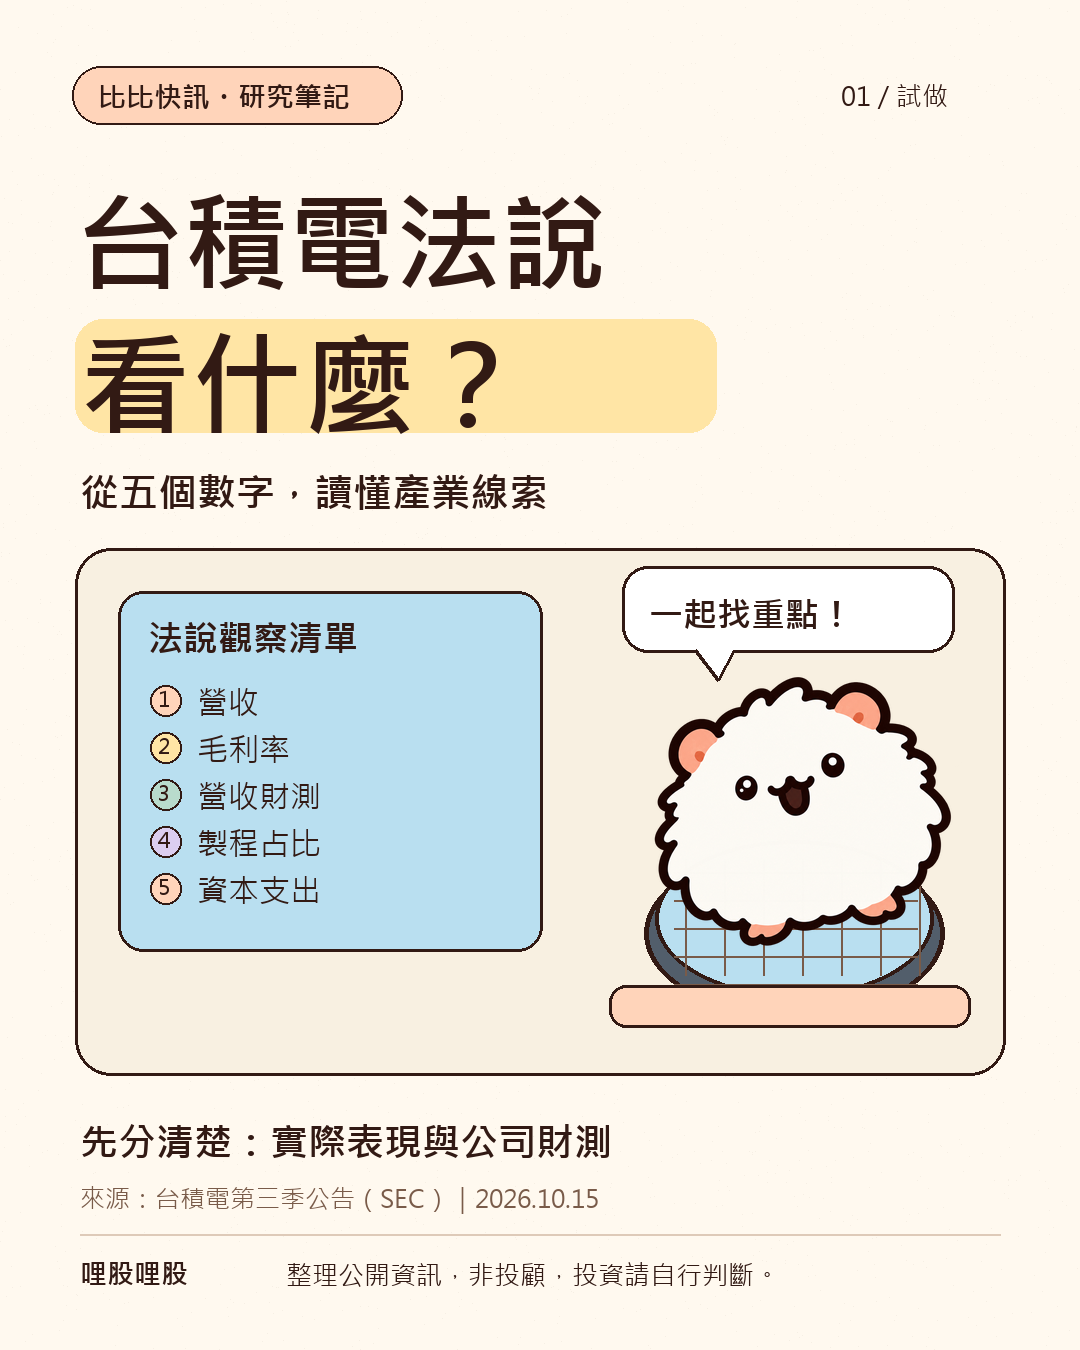
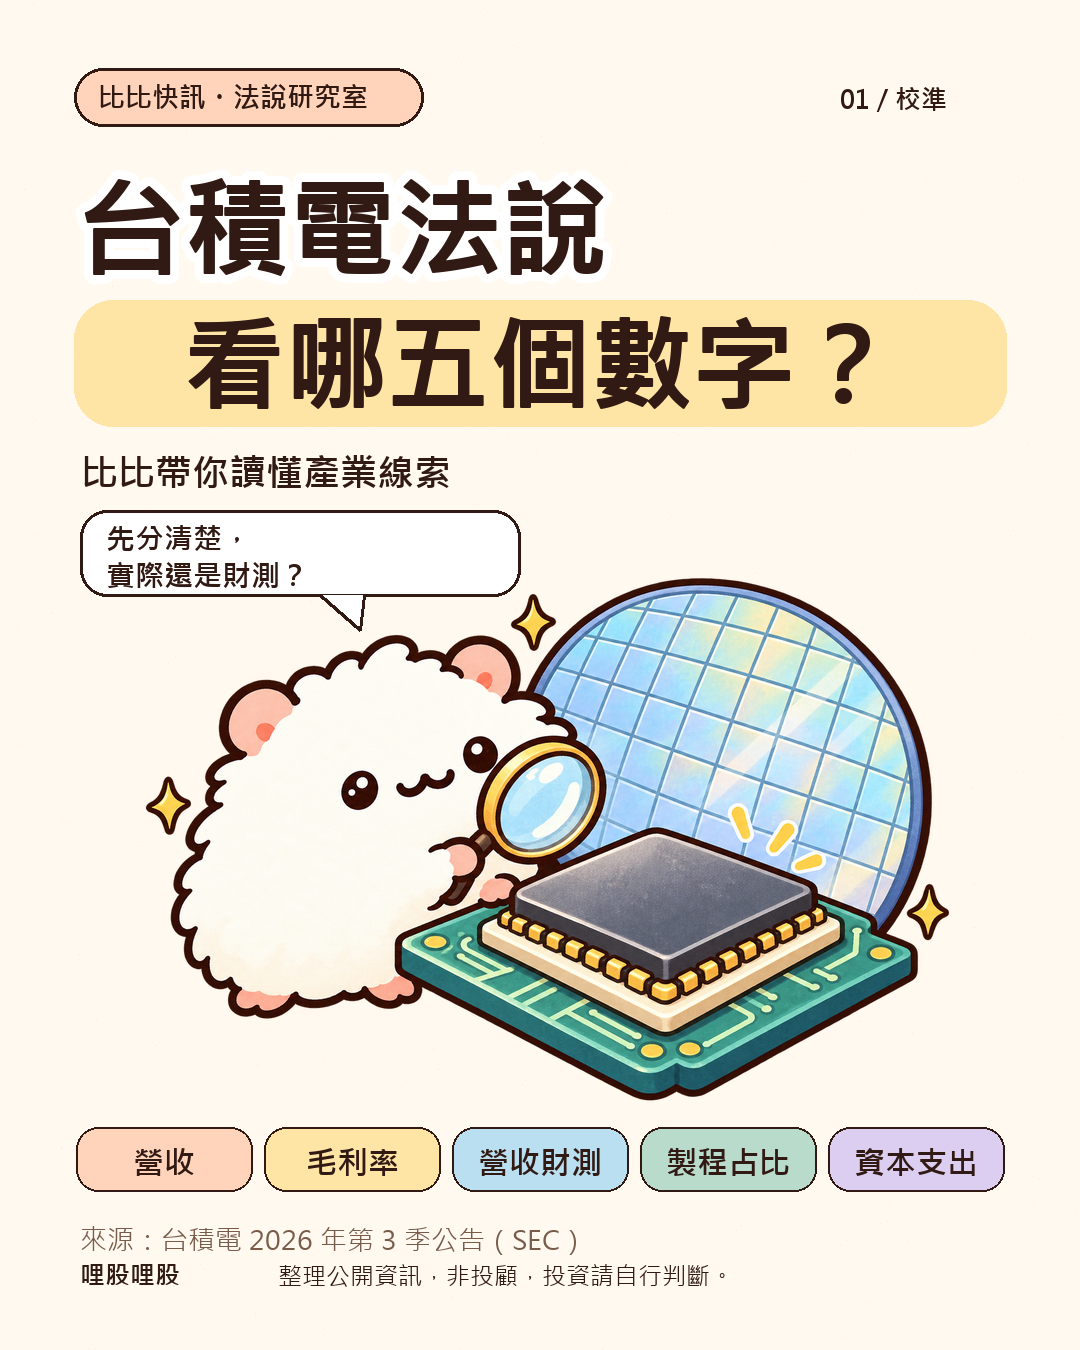
重修第1頁科技主視覺與比比主持互動，附放大品管

diff --git a/docs/social_posts/2026-10-17_tsmc-q3-call/render_cover_v2.py b/docs/social_posts/2026-10-17_tsmc-q3-call/render_cover_v2.py
@@ -1,0 +1,61 @@
+from PIL import Image, ImageDraw, ImageFont
+from pathlib import Path
+import random,shutil
+P=Path(__file__).parent
+(P/'qa').mkdir(exist_ok=True)
+W,H=1080,1350
+C='#321A14'; M='#795B49'
+im=Image.new('RGB',(W,H),'#FFF9EF'); d=ImageDraw.Draw(im)
+def font(n,b=False): return ImageFont.truetype('C:/Windows/Fonts/msjhbd.ttc' if b else 'C:/Windows/Fonts/msjh.ttc',n)
+def text(x,y,s,n=36,c=C,b=False,stroke=0):
+ f=font(n,b); box=d.textbbox((x,y),s,font=f,stroke_width=stroke)
+ assert box[0]>=64 and box[2]<=1016 and box[3]<=1290,(s,box)
+ d.text((x,y),s,font=f,fill=c,stroke_width=stroke,stroke_fill=c)
+def center(y,s,n=36,c=C,b=False,stroke=0):
+ f=font(n,b); x=(W-d.textlength(s,font=f))/2
+ text(x,y,s,n,c,b,stroke)
+random.seed(17)
+for _ in range(8000):
+ x=random.randrange(W); y=random.randrange(H)
+ d.point((x,y),fill=random.choice(['#F6EFE5','#FFF9EF','#FFF9EF']))
+d.rounded_rectangle((74,68,423,126),29,fill='#FFD4BA',outline=C,width=3)
+text(98,77,'比比快訊・法說研究室',27,b=True)
+text(840,81,'01 / 校準',26,b=True)
+# 大標：貼紙留邊與淡黃刷色底，文字由程式後製。
+f=font(106,True); s='台積電法說'; x=78; y=153
+d.text((x,y),s,font=f,fill=C,stroke_width=10,stroke_fill='#FFFFFF')
+d.text((x,y),s,font=f,fill=C,stroke_width=1,stroke_fill=C)
+d.rounded_rectangle((74,300,1006,426),39,fill='#FFE5A5')
+center(292,'看哪五個數字？',102,b=True,stroke=1)
+text(81,446,'比比帶你讀懂產業線索',37,b=True)
+# 大型科技情境，角色有與主題相關的觀察動作。
+scene_path=P/'assets/bibi_research_scene_v001.png'
+if not scene_path.exists(): scene_path=P.parents[1]/'social_assets/author_unverified/bibi_chip_research_host/v001.png'
+scene=Image.open(scene_path).convert('RGBA')
+scene.thumbnail((970,584),Image.Resampling.LANCZOS)
+sx=(W-scene.width)//2; sy=534
+im.paste(scene,(sx,sy),scene); d=ImageDraw.Draw(im)
+# 獨立台詞：尾巴指向左側比比；不覆蓋角色或零件。
+d.rounded_rectangle((80,510,520,596),27,fill='#FFFFFF',outline=C,width=3)
+d.polygon([(320,595),(360,630),(364,595)],fill='#FFFFFF')
+d.line([(320,595),(360,630),(364,595)],fill=C,width=3)
+text(106,517,'先分清楚，',29,b=True)
+text(106,554,'實際還是財測？',29,b=True)
+# 五個財務入口獨立成列，沒有指向科技構件的線。
+labels=[('營收','#FFD4BA'),('毛利率','#FFE5A5'),('營收財測','#B9DFF0'),('製程占比','#B9DBCC'),('資本支出','#DCCEF0')]
+for i,(label,color) in enumerate(labels):
+ x=76+i*188
+ d.rounded_rectangle((x,1127,x+176,1191),22,fill=color,outline=C,width=2)
+ f=font(31,True); tx=x+(176-d.textlength(label,font=f))/2
+ text(tx,1140,label,31,b=True)
+text(80,1220,'來源：台積電 2026 年第 3 季公告（SEC）',27,c=M)
+text(80,1257,'哩股哩股',25,b=True)
+text(278,1259,'整理公開資訊，非投顧，投資請自行判斷。',24)
+im.save(P/'slides/01_v2.png',optimize=True)
+im.resize((360,450),Image.Resampling.LANCZOS).save(P/'slides/01_v2_mobile.png')
+# 角色與道具接觸放大檢查，不改寫原始圖。
+scene_original=Image.open(scene_path).convert('RGBA')
+crop=scene_original.crop((100,120,950,880))
+bg=Image.new('RGBA',crop.size,'#FFF9EF'); bg.alpha_composite(crop)
+bg.convert('RGB').resize((1700,1520),Image.Resampling.LANCZOS).save(P/'qa/bibi_contact_200.png')
+print('v2 rendered; text bounds verified')

diff --git a/docs/social_posts/2026-10-17_tsmc-q3-call/qa_report_v2.md b/docs/social_posts/2026-10-17_tsmc-q3-call/qa_report_v2.md
@@ -1,0 +1,44 @@
+# 品管｜第1頁 v2 科技研究情境
+
+狀態：本次單頁文案、版面與角色檢查通過；風格仍待 Andy 確認。獨立複查見 qa_independent_v2.md。僅單頁，不能宣稱全篇連續動作已通過。
+
+## 本頁製作單
+
+- 頁碼／結論：01；讀法說先看五個觀察面向，分清實際與財測。
+- 主標：台積電法說／看哪五個數字？共12字含問號、換行不計。
+- 副標：比比帶你讀懂產業線索。
+- 主視覺：比比＋放大鏡＋晶片平台＋晶圓，為研究情境示意，非真實產品架構，不承擔數據圖功能。
+- 標籤：營收／毛利率／營收財測／製程占比／資本支出；獨立分類、不連線至零件。
+- 比比台詞：先分清楚，實際還是財測？
+- 主持功能：以觀察晶片的動作邀請讀者看研究重點，台詞提示實際與財測有別。
+- 表情／視線／動作：好奇專注微笑、朝讀者介紹、短掌握鏡、另一掌接觸平台；非長手臂。
+- 互動物件：鏡柄與掌接觸、平台支撐另一掌，鏡面靠近晶片；不宣稱正在精密量測。
+- 素材 ID／版本：bibi_chip_research_host／v001；新情境由 imagegen 生成，原角色參考的歷史作者 unknown，保留衍生歸屬。
+- 色彩與版型：奶油底、咖啡輪廓、大字貼紙主標、淡黃刷色、淺藍晶圓與薄荷平台、下方五個粉彩膠囊。
+- 製作工具：內建 image_gen.imagegen 產插畫；Python/Pillow 後製所有正式文字與分類標籤。
+
+## 逐項檢查
+
+- [x] 正式圖1080×1350；360×450縮圖已實看；主標與五標籤可辨。
+- [x] 數字對照：2026／第3季對應 brief 的 SEC 公告；「五個」為本篇分類數，不是財報指標數值。
+- [x] 無新增未核實營收／資本支出數據；財測有文字標示，沒有把預估畫成實際。
+- [x] 正式繁體中文後製，文字邊界程式檢查並人工檢視；沒有拆詞、重疊與裁切。
+- [x] 原尺寸實看整頁；角色／鏡柄／兩掌／兩腳與平台接觸裁切放大200%實看。
+- [x] 五官位置、耳、掌、腳、毛邊及外輪廓未見重影、多餘肢體、異常碎片、尾巴或穿模。
+- [x] 奶白身體，粉色僅耳掌腳；無腮紅、無粉舌、無金錢圖示、無長臂或人類手指。
+- [x] 泡泡尾朝比比；初版尾偏向晶圓已移位；場景不遮關鍵文字。
+- [x] 沒有第三方浮水印、帳號、Logo或挖取參考原圖。
+- [x] 來源與固定免責保留；追蹤文章連結沿用 brief.md。
+- [x] 來源註記改成「2026 年第 3 季」並放大，減少中文字形在小尺寸易誤認的問題。
+- [x] 提示詞、父素材、來源與版本已登錄，新情境入共用素材庫供後續查找。
+- [ ] Andy 確認風格；本項與技術品管分開。
+- [ ] 全篇連續頁主持變化：本次不適用，其他頁尚未製作。
+
+## 版本與限制
+
+- v1保留；v2以新情境圖取代清單卡主視覺。
+- 檢查證據：slides/01_v2.png、slides/01_v2_mobile.png、qa/bibi_contact_200.png。
+- 手機縮圖頁腳屬輔助小字，主標與重點可讀；完整來源與免責另保留於文字檔，後續全篇來源頁須再驗收。
+- 共用素材為情境組合，不把角色裁切後宣稱為新的獨立原畫。歷史原角色作者／權利未知仍保留 unknown。
+
+整理公開資訊，非投顧，投資請自行判斷。

diff --git a/docs/social_posts/2026-10-17_tsmc-q3-call/qa_independent_v2.md b/docs/social_posts/2026-10-17_tsmc-q3-call/qa_independent_v2.md
@@ -1,0 +1,36 @@
+# 視覺與資料品管｜第 1 頁 v2 獨立複核
+
+- 日期：2026-10-17（Asia/Taipei）。
+- 實際查看：slides/01_v2.png、slides/01_v2_mobile.png、qa/bibi_contact_200.png，三張皆以 view_image 開啟，未修改 PNG。
+- 結果：主持情境、文字版面與角色異常檢查通過。來源季度註記已改善可讀性並實看複查；Andy 的風格核可另行判定。
+
+## 實際觀察
+
+|檢查項|結果|
+|---|---|
+|整頁層級與裁切|主標、問句、副標、台詞、主圖、五標籤與頁腳分區明確；角色及主要物件未被頁面裁斷。|
+|正式文字|繁體中文正常，主標為 12 字（含問號、不計換行）；未見簡體、亂碼與詞語拆行。|
+|手機縮圖|360 px 圖中主標、問句清楚，五個標籤可辨；頁腳來源／免責較小，須開原尺寸閱讀，不能宣稱手機下每字同等清晰。|
+|五官|兩眼、兩耳、一個嘴部構造，眼睛有白色高光；未見多臉、錯位或重影。|
+|輪廓與配色|奶白毛球、深咖啡粗輪廓完整，未見破碎毛邊或孤立碎片；粉色只在耳、掌、腳，無粉腮。|
+|肢體與無尾巴|可見兩短掌、兩短腳；未見人類手指、拉長手臂、多餘肢體或尾巴。|
+|放大鏡握持|前掌接觸握柄，握柄與鏡框連續；未見漂浮、斷手或穿過手掌。另一掌靠在平台後緣，未見穿模。|
+|平台接觸|短腳位於畫面下緣地面位置，另一掌與平台後緣相接；平台是示意情境，未把比比畫成技術結構的一部分。|
+|主持意圖|比比帶放大鏡向讀者介紹，台詞提醒區分實際與財測，與法說閱讀內容相關；眼神朝讀者，不能描述成正盯著鏡片。|
+|泡泡|尾巴下指比比頭頂方向，未指向晶圓或晶片；泡泡與頭部輪廓有間距。|
+|文字與主圖|未見主標、台詞、五標籤或頁腳疊壓角色與道具；標籤未連線到技術構件。|
+|技術示意|晶圓與晶片是主題情境，未附未查核規格或數值；不將此圖當作製程、封裝、針腳結構的教學圖。|
+|來源、免責、第三方標記|可見「來源：台積電 2026 年第 3 季公告（SEC）」、固定免責與品牌字樣；未見第三方帳號／浮水印／Logo。|
+
+## 可讀性改善與複查
+
+初輪因來源字型在視圖中易誤認季度，向主代理提出複查；renderer 原文一直為第三季，並非事實來源曾填錯季度。主代理已採納可讀性改善，改為「來源：台積電 2026 年第 3 季公告（SEC）」，字級由 25 px 增至 27 px，移除同列日期增加留白。本人再次以 view_image 實看重渲染的整頁與 360 px 圖；第 3 季文字明確，未見新重疊或裁切，通過本次複查。
+
+## 可觀察限制
+
+- 視覺可確認握持／輪廓關係合理，不能由情境插圖保證實際半導體構造與物理尺寸。
+- 角色接觸處放大圖工具回傳曾由 1700×1520 縮至 1664×1487，仍足以檢查可見五官、掌、腳與握持輪廓；並非像素逐點分析。
+- 本次只有一頁，無法驗收連續頁至少改變兩項角色表現的全篇要求。
+- 本次未重新開外部公告，來源事實分級沿用 brief；圖像原始作者／素材版本與權利登錄由素材管理文件核對。
+
+

diff --git a/docs/social_posts/2026-10-17_tsmc-q3-call/illustration_prompt_v2.md b/docs/social_posts/2026-10-17_tsmc-q3-call/illustration_prompt_v2.md
@@ -1,0 +1,13 @@
+# 插畫｜v2 提示與素材用途
+
+- 工具：內建 image_gen.imagegen；透明背景。
+- 參考 1：既有 bibi_clean.png，只作角色身份參考；原畫作者 unknown，衍生素材保留此來源。
+- 參考 2：Andy 提供 image (1).png，只學暖色手繪科技主視覺，禁止挖圖、複製字、Logo 或第三方帳號。
+- 用途：法說封面；比比透過放大鏡觀察晶片，提供「一起找重點」的主持情境，可重用於晶片研究介紹。
+- 構圖：比比左、晶片右、晶圓後方，短掌合理接觸放大鏡及平台；視覺為主題情境示意，非實際產品結構圖。
+- 規格：奶白毛球、咖啡輪廓、白高光黑眼、小耳、短掌短腳、無尾巴；粉色只耳掌腳；無金錢符號、無中文字與數字。
+
+## 完整生成提示
+
+Use case: illustration-story. Create a NEW original transparent-background editorial illustration asset for a warm handdrawn technology research IG cover. Input 1 is Bibi identity reference; input 2 is STYLE AND COMPOSITION inspiration ONLY, do not reproduce its artwork, lettering or character poses. One cream fluffy guinea pig Bibi on LEFT, round compact body, deep coffee thick imperfect handdrawn contour, tiny round ears, black dot eyes with white catchlights, short round front paws and tiny feet, no tail, NO blush, NO pink tongue, cream fur without peach shadows, pink ONLY ears/paws/feet. Curious focused expression, gaze toward a magnifying glass lens held by one TINY front paw close to its body, lens aimed toward an unmarked dark slate microchip on the RIGHT. Other tiny front paw rests naturally on the edge of a low teal circuit-board platform (no long arms, no fingers). The magnifying glass handle must visibly connect to the small paw, no floating. Hero centerpiece is a LARGE perspective semiconductor silicon wafer behind and a BIG single processor chip on a layered teal substrate in foreground right, coherent simple chip structure, gold contact pads, light blue wafer grid. This is an editorial research scene, not a technical diagram or actual product architecture. Bibi about 40 percent of scene width, large and expressive, technology about 60 percent. Rounded warm watercolor pencil texture, soft cream/blue/mint/yellow, dark brown contour, gentle shadows, slight three-quarter view, same visual richness and charm as reference 2 without copying. Compose as a wide compact group filling canvas, full body, full wafer, all paws and glass uncropped, generous transparent margin. NO letters, NO text, NO numbers, NO logos, NO currency, NO speech bubbles, no charts, no watermarks, no duplicate limbs or fur fragments. Preserve actual transparent alpha background. Generate only illustration; typography will be added later.
+

diff --git a/docs/social_posts/2026-10-17_tsmc-q3-call/copy_review_v2.md b/docs/social_posts/2026-10-17_tsmc-q3-call/copy_review_v2.md
@@ -1,0 +1,36 @@
+# 文案企劃／研究查核｜第 1 頁 v2 文案複核
+
+- 日期：2026-10-17（Asia/Taipei）。
+- 複核範圍：dispatch_v2.md、brief.md、article_snapshot.json、BIBI_HOST_QA.md。此次僅核對封面文字與既有查核邊界，不宣稱重新讀取各項外部公告。
+- 結果：文字方案可進入排版；不新增財報數值、不把母文章未查核敘述帶入封面。
+
+## 核准文字
+
+|用途|文字|檢查|
+|---|---|---|
+|主標第 1 行|台積電法說|5 字|
+|主標第 2 行|看哪五個數字？|7 字，含問號；兩行合計 12 字，換行不計|
+|副標|比比帶你讀懂產業線索|11 字|
+|五個入口|營收／毛利率／營收財測／製程占比／資本支出|與既有 brief 的五面向一致|
+|比比台詞|先分清楚，實際還是財測？|引導辨識實際與預估，不暗示獲利或訂單|
+
+## 研究邊界
+
+- 「五個」是封面入口數量，與五標籤一一對應；不是新增財務數據。
+- 「營收財測」已明示預估性質；不得畫成實際營收柱、已成定局的成長箭頭。
+- 「製程占比」只作入口標籤，後續展開必須明寫分母為晶圓營收。
+- 「資本支出」是觀察主題，不呈現本輪未核的全年金額，也不暗示特定供應商訂單。
+- 「產業線索」是閱讀目的，不是投資結論；不加入受惠股、買賣、股價漲跌文字。
+- 五標籤不宜直接連到晶圓的五個構件，以免把財務項目誤認成物理結構；科技圖為產業情境示意。
+
+## 排版與主持交接
+
+- 比比以專注觀察的主持角色，視線指向晶圓／放大鏡觀察處，台詞解釋閱讀方法。
+- 放大鏡應確實由短掌握持，鏡片對準觀察物，不能遮住臉、五標籤與主標。
+- 泡泡尾巴指向比比，不指向科技物件；避免台詞看似物件自述。
+- 保留來源註記與固定免責：整理公開資訊，非投顧，投資請自行判斷。
+- 正式文字另行後製；所有文字仍需於成圖 100% 與 360 px 縮圖實際檢查。
+
+## 待做視覺品管
+
+成圖尚未交付本複核角色，故不勾選視覺通過。收到後檢查 100% 全圖、200～400% 比比及道具接觸處、360 px 縮圖，另記實際異常與複查結果。

diff --git a/docs/social_posts/2026-10-17_tsmc-q3-call/dispatch_v2.md b/docs/social_posts/2026-10-17_tsmc-q3-call/dispatch_v2.md
@@ -1,0 +1,19 @@
+# CEO／總編｜第 1 頁重修派工單
+
+- 日期：2026-10-17（Asia/Taipei）。
+- 授權：Andy 要求先執行 CEO 判斷的封面優化；本次僅第 1 頁 v2，不擴製其他頁。
+- 設計主軸：大型晶圓與晶片研究情境，比比透過放大鏡觀察、引導讀者辨識法說重點。從清單卡改為科技主視覺，正式文字另行排版。
+
+|角色|負責人／順序|交付|
+|---|---|---|
+|CEO／總編|主代理，全程|定稿、整合、回報；兩種入口固定寫入規則|
+|研究查核|研究／文案子代理，並行|重讀 brief／母文快照，確認封面文案不新增未核數字|
+|文案企劃|研究／文案子代理，並行|第 1 頁標題、主持台詞與五標籤檢查|
+|貼文設計|主代理，文案後|1080×1350 v2 與手機縮圖|
+|插畫|主代理，imagegen|比比與晶圓情境透明 PNG；生成提示與來源登錄|
+|短影片|本次不啟用|未要求影片|
+|品管|主代理＋品管子代理，成圖後|100% 整頁、200～400% 角色接觸處、360 px 縮圖|
+|素材管理|主代理|新 asset_id、manifest、素材索引與本篇引用|
+|備份|主代理，品管後|更新 PR #5 成品、PR #6 規則與素材庫；不推 main|
+
+完成標準：畫面無異常肢體／碎片、比比有內容相關互動、文字後製不重疊，並備份供 Andy 審閱。舊稿保留，風格確認與技術品管分別記錄。

diff --git a/docs/social_posts/2026-10-17_tsmc-q3-call/brief.md b/docs/social_posts/2026-10-17_tsmc-q3-call/brief.md
@@ -95,3 +95,13 @@
 ## 總編定稿補註
 實際交付以 slides/01.png 與 qa_report.md 本頁製作單為準：副標『從五個數字，讀懂產業線索』，比比台詞『一起找重點！』；清單為營收、毛利率、營收財測、製程占比、資本支出。素材為既有歪頭比比兩輪修圖衍生，原畫作者 unknown；造型已檢視。
 
+
+## 總編 v2 定稿（本次最新版本）
+
+- 主標：台積電法說／看哪五個數字？
+- 副標：比比帶你讀懂產業線索。
+- 比比台詞：先分清楚，實際還是財測？
+- 主圖改為比比用放大鏡觀察晶片的研究情境，非技術結構圖；標籤獨立排版。
+- 來源註記：來源：台積電 2026 年第 3 季公告（SEC）。
+- 五標籤與原有事實分級不變，無新增實際／財測數據。
+- 最新交付：slides/01_v2.png；詳 dispatch_v2.md、qa_report_v2.md。前述第1頁建議及v1定稿保留為歷史，最新v2優先。

diff --git a/docs/social_posts/INDEX.md b/docs/social_posts/INDEX.md
@@ -2,4 +2,4 @@
 
 |日期|主題|來源文章 id|狀態|PR 連結|本機位置|
 |---|---|---|---|---|---|
-|2026-10-17|台積電法說看什麼？|2026-10-16-news-tsmc-q3-call|第 1 頁校準；待 Andy 審閱|https://github.com/MiaoZiKe/tw-rotation/pull/5|C:\哩股哩股\output\2026-10-17_tsmc-q3-call|
+|2026-10-17|台積電法說看什麼？|2026-10-16-news-tsmc-q3-call|第 1 頁 v2 已重修與品管；待 Andy 審閱|https://github.com/MiaoZiKe/tw-rotation/pull/5|C:\哩股哩股\output\2026-10-17_tsmc-q3-call|

diff --git a/docs/social_posts/2026-10-17_tsmc-q3-call/qa_report.md b/docs/social_posts/2026-10-17_tsmc-q3-call/qa_report.md
@@ -1,3 +1,9 @@
+# 最新品管入口
+
+本次交付已重修為 v2，正式驗收以 [qa_report_v2.md](qa_report_v2.md) 與 [獨立複查](qa_independent_v2.md) 為準；下方保留 v1 歷史紀錄。
+
+---
+
 # 視覺與資料品管｜第 1 頁風格校準
 
 狀態：本次單頁技術與視覺檢查通過；待 Andy 確認風格。整套輪播尚未製作，不能當作已通過全套品管。原畫作者與權利未核實，不聲稱素材可自由授權。
